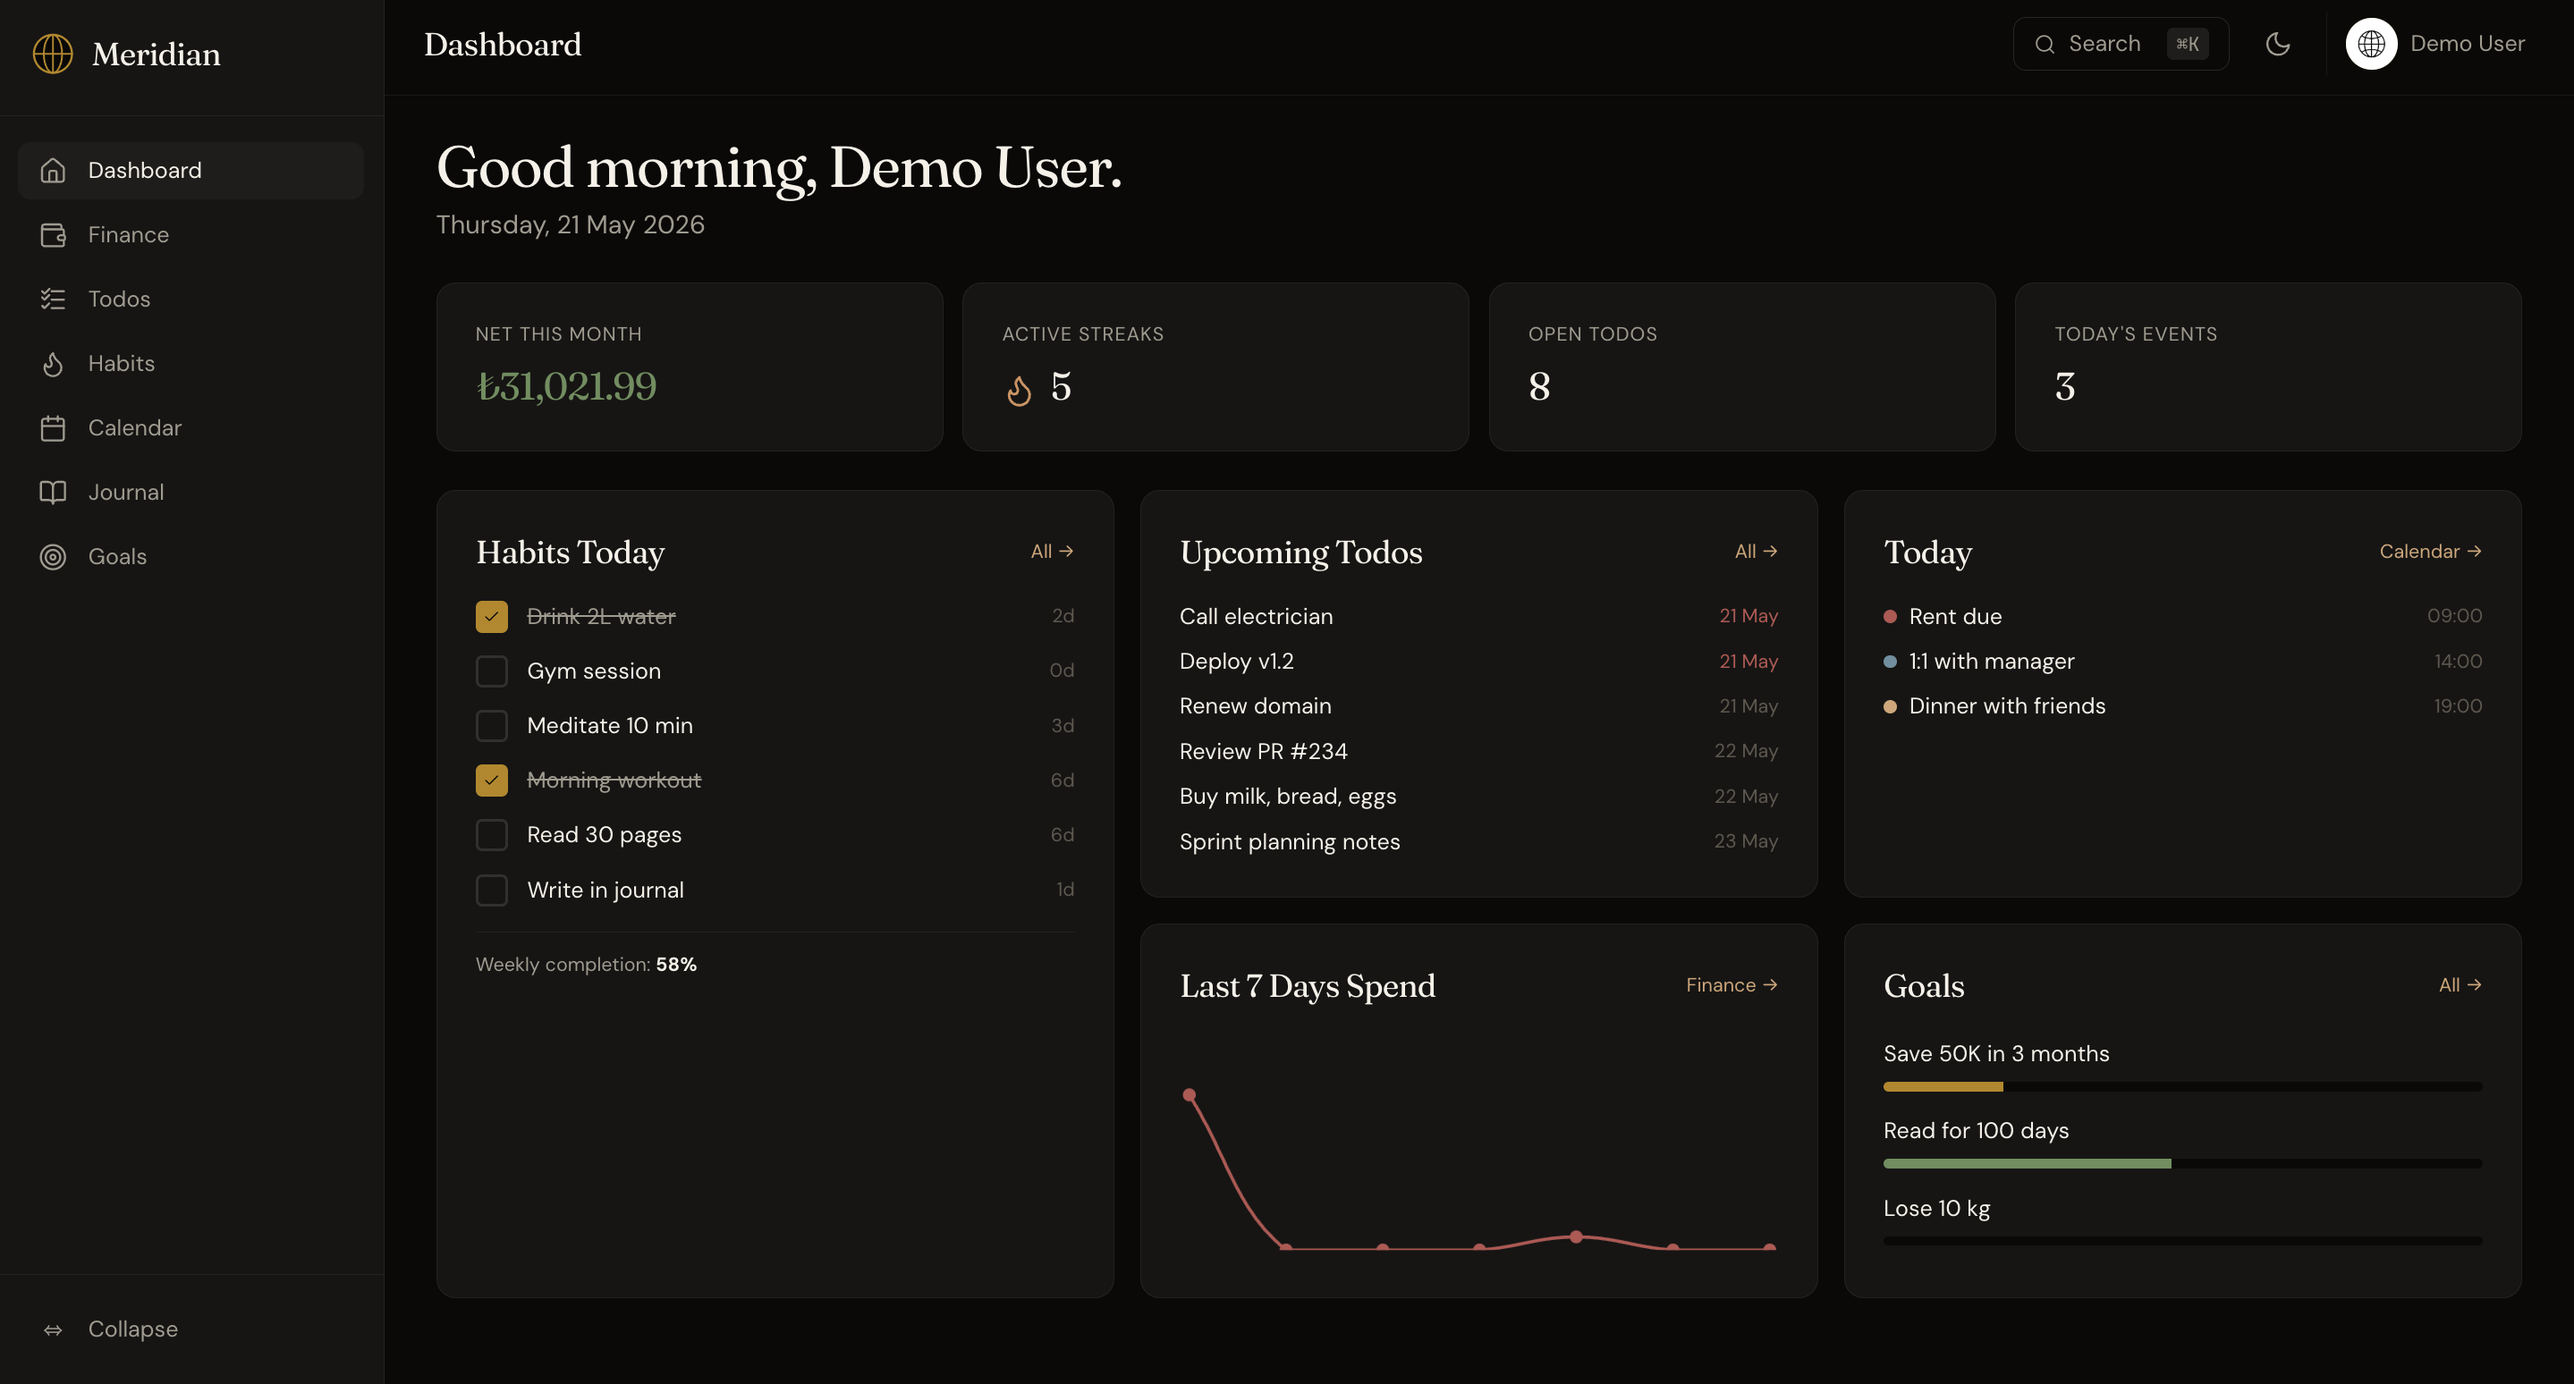
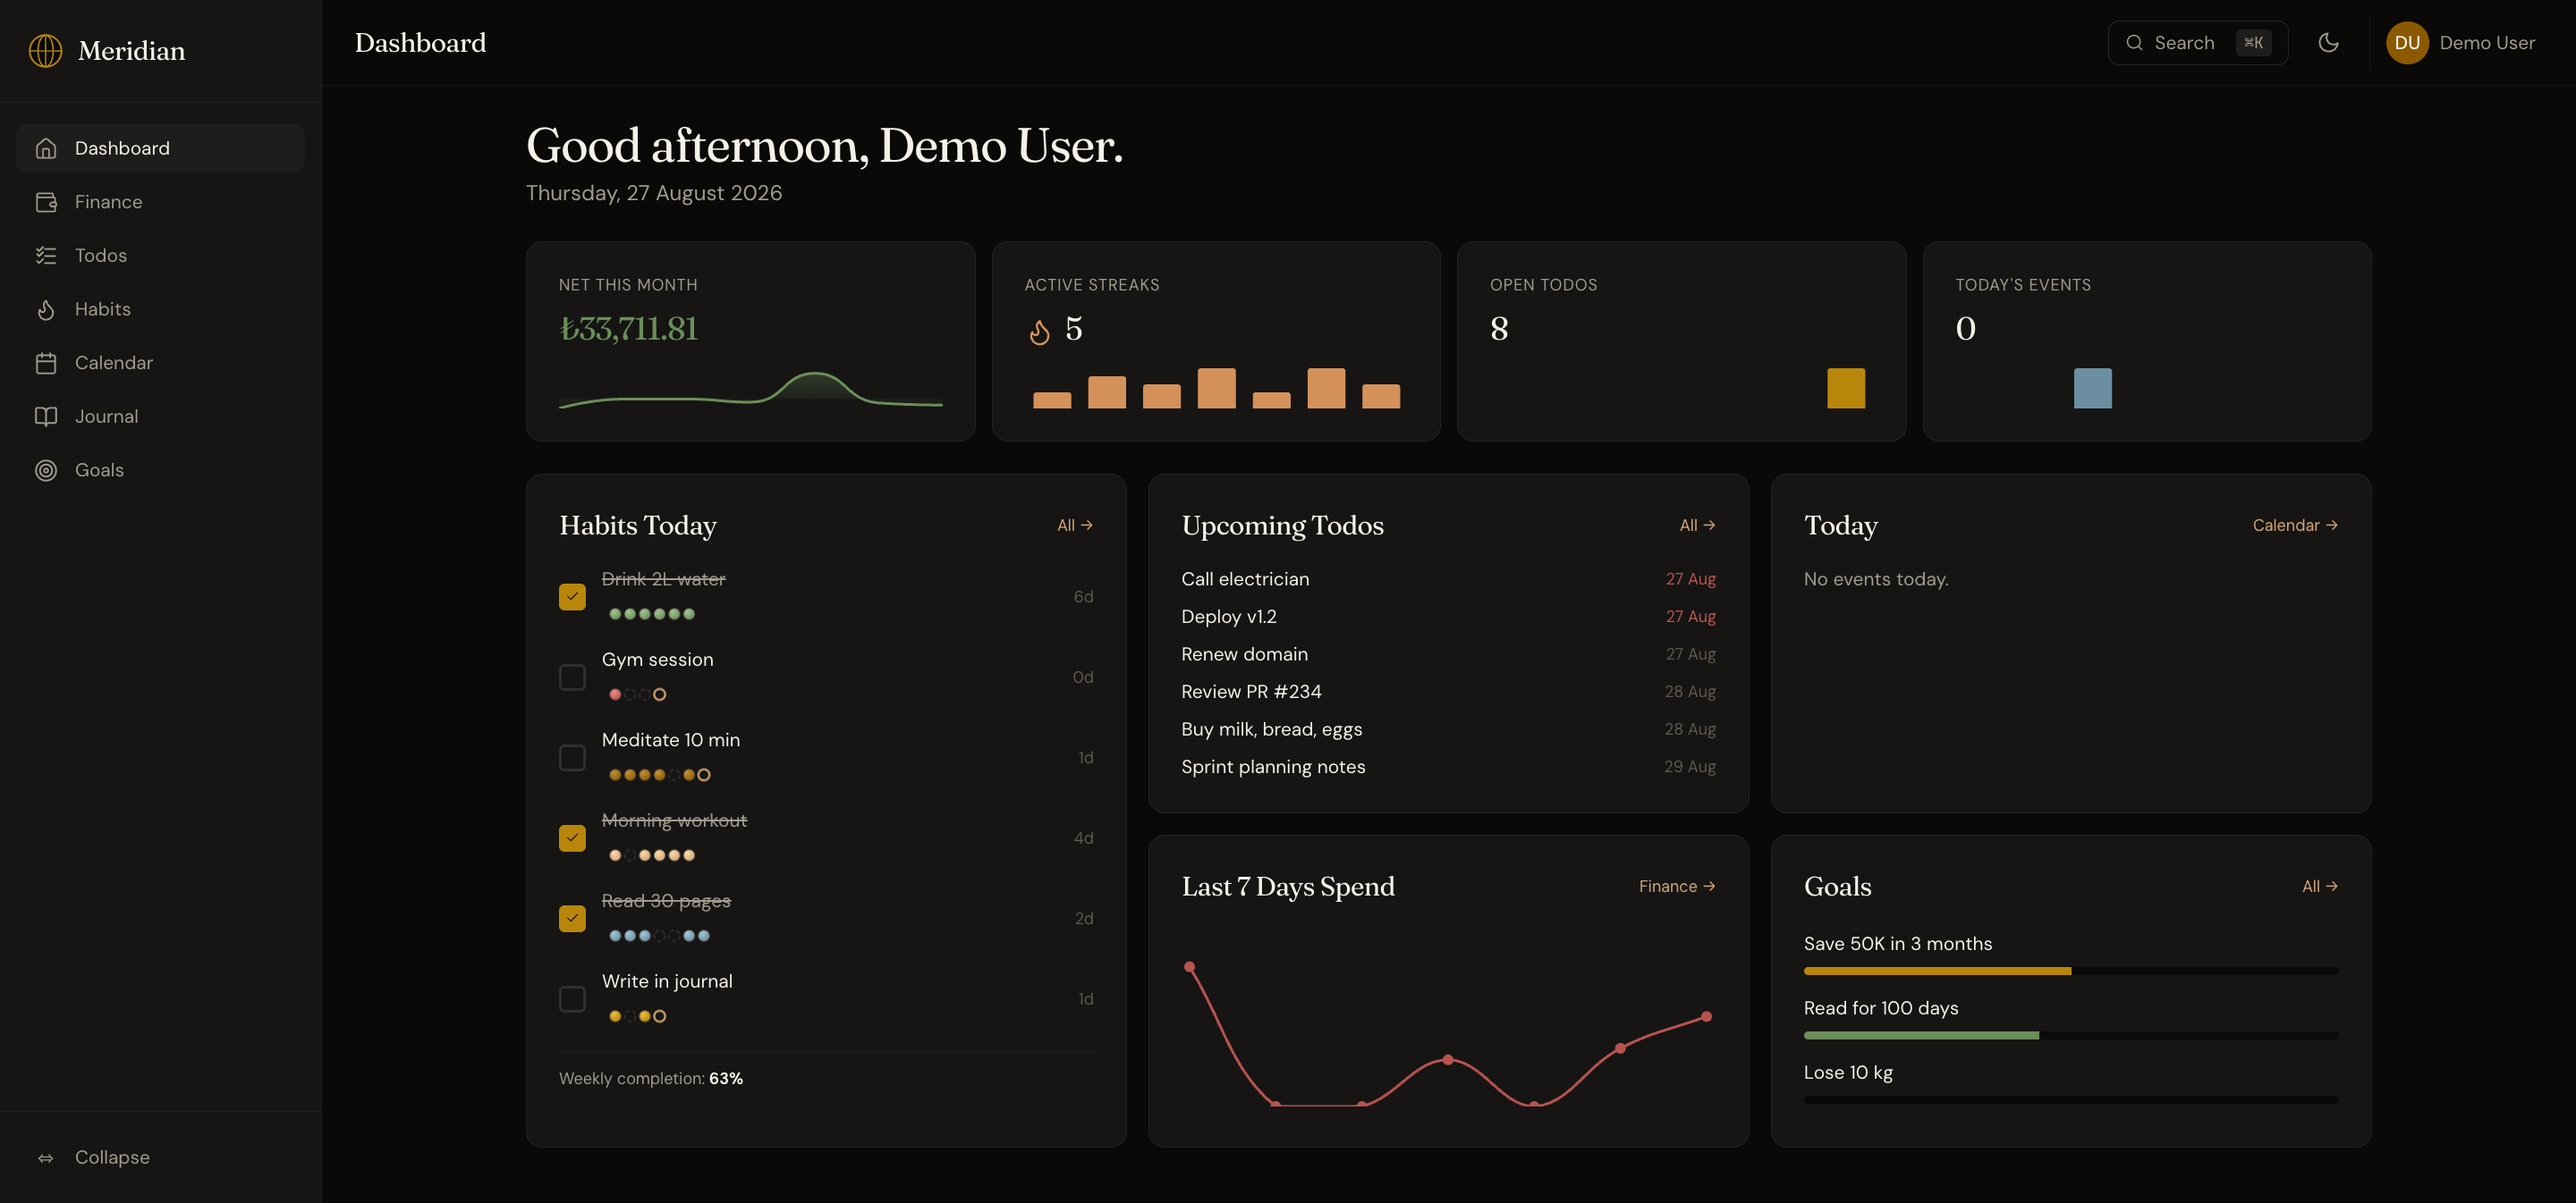
docs: add finance screenshot and mobile client section

diff --git a/README.md b/README.md
@@ -13,13 +13,16 @@
   <img src="https://img.shields.io/badge/Rails-8-CC0000?logo=rubyonrails&logoColor=white" alt="Rails 8">
   <img src="https://img.shields.io/badge/PostgreSQL-14+-4169E1?logo=postgresql&logoColor=white" alt="PostgreSQL 14+">
   <img src="https://img.shields.io/badge/Hotwire-Turbo%20%2B%20Stimulus-5a67d8" alt="Hotwire">
+  <a href="https://github.com/hamzagedikkaya/meridian-mobile"><img src="https://img.shields.io/badge/mobile-Flutter%20client-02569B?logo=flutter&logoColor=white" alt="Flutter mobile client"></a>
   <a href="LICENSE"><img src="https://img.shields.io/badge/license-PolyForm%20NC%201.0.0-blue" alt="License"></a>
 </p>
 
 <p align="center">
   <a href="#-quick-start">Quick start</a> ·
   <a href="#-features">Features</a> ·
+  <a href="#-mobile-client">Mobile</a> ·
   <a href="#-backup--restore">Backup</a> ·
+  <a href="#-design">Design</a> ·
   <a href="#-keyboard-shortcuts">Shortcuts</a>
 </p>
 
@@ -30,6 +33,8 @@ Meridian is a self-hosted, local-first personal life OS. One Rails app gathers t
 <p align="center">
   <img src="docs/dashboard.png" alt="Dashboard" width="100%" />
 </p>
+
+<p align="center"><sub>The dashboard, dark theme, seeded demo account.</sub></p>
 
 ## ✨ Features
 
@@ -48,6 +53,12 @@ Meridian is a self-hosted, local-first personal life OS. One Rails app gathers t
 - 💾 **Backup & restore** — `pg_dump` + ActiveStorage blobs bundled into a portable archive
 - 🌍 **Bilingual** — full Turkish & English UI, switchable per user
 - 🎨 **Design** — Fraunces + DM Sans, dark-first amber/gold palette, optional light mode
+
+<p align="center">
+  <img src="docs/finance.png" alt="Finance dashboard" width="100%" />
+</p>
+
+<p align="center"><sub>Finance: month net, interactive spending breakdown, categories, accounts and budgets on one page.</sub></p>
 
 ## 🧰 Tech Stack
 
@@ -91,6 +102,19 @@ bundle exec rubocop
 bundle exec brakeman -i config/brakeman.ignore
 ```
 
+## 📱 Mobile Client
+
+[**Meridian Mobile**](https://github.com/hamzagedikkaya/meridian-mobile) is the companion Flutter app — Android-first, Turkish/English, talking to this server over your own Wi-Fi. It reads and writes through a JSON API under `/api/v1`, authenticated with the user's `api_token` as a bearer token:
+
+```bash
+curl -s http://localhost:3000/api/v1/health                       # unauthenticated ping
+curl -s -X POST http://localhost:3000/api/v1/session \
+     -d 'email=demo@meridian.local&password=demo12345'            # → {token, user}
+curl -s http://localhost:3000/api/v1/home -H "Authorization: Bearer $TOKEN"
+```
+
+The API covers home, finance dashboard, accounts, transactions, categories, habits, goals, journal, todos, events and quick capture. `PATCH /api/v1/me` lets the phone store the language and theme the user picked, so the choice follows the account back to the web app. Money always crosses the wire as integer `*_cents` plus the currency's `subunit_to_unit` — the phone never divides by 100 and gram-gold stays in grams.
+
 ## 💾 Backup & Restore
 
 Backups are first-class: everything that defines "your Meridian" — schema, rows, attachments, app version — lives in a single archive.
@@ -122,6 +146,22 @@ Full archive layout in [docs/backup_format.md](docs/backup_format.md).
 | `g d` · `g f` · `g t` · `g h` | Dashboard · Finance · Todos · Habits |
 | `g c` · `g j` · `g g` | Calendar · Journal · Goals |
 | `Esc` | Close any modal |
+
+## 🎨 Design
+
+Warm near-black, cream text and a single disciplined gold — Fraunces for display, DM Sans for body. Every token lives in `@theme` inside [`app/assets/tailwind/application.css`](app/assets/tailwind/application.css); the full reference is [`docs/design_tokens.md`](docs/design_tokens.md).
+
+<p align="center">
+  <img src="https://img.shields.io/badge/-%230A0908-0A0908?style=flat-square" alt="#0A0908 bg-base">
+  <img src="https://img.shields.io/badge/-%23161514-161514?style=flat-square" alt="#161514 bg-elevated">
+  <img src="https://img.shields.io/badge/-%23B8860B-B8860B?style=flat-square" alt="#B8860B accent">
+  <img src="https://img.shields.io/badge/-%23F5F1E8-F5F1E8?style=flat-square" alt="#F5F1E8 fg-primary">
+  <img src="https://img.shields.io/badge/-%236B8E5A-6B8E5A?style=flat-square" alt="#6B8E5A income">
+  <img src="https://img.shields.io/badge/-%23B85450-B85450?style=flat-square" alt="#B85450 expense">
+  <img src="https://img.shields.io/badge/-%23D4915A-D4915A?style=flat-square" alt="#D4915A warning">
+</p>
+
+Dark is the default; light mode inverts the surfaces and keeps the accent. The mobile client mirrors the same language with its own dark-first palette.
 
 ## 📂 Module Map
 
